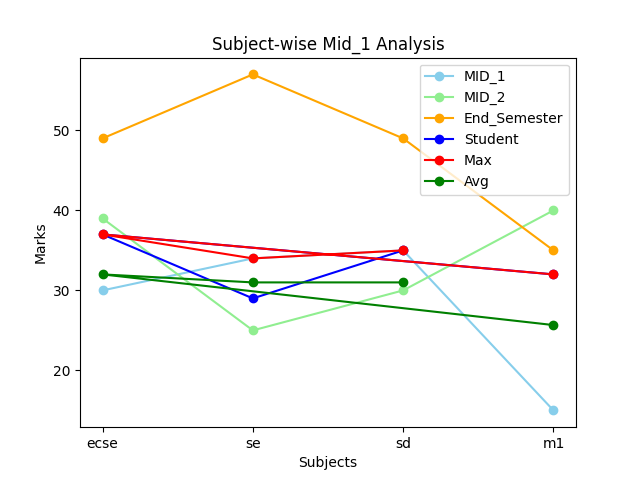
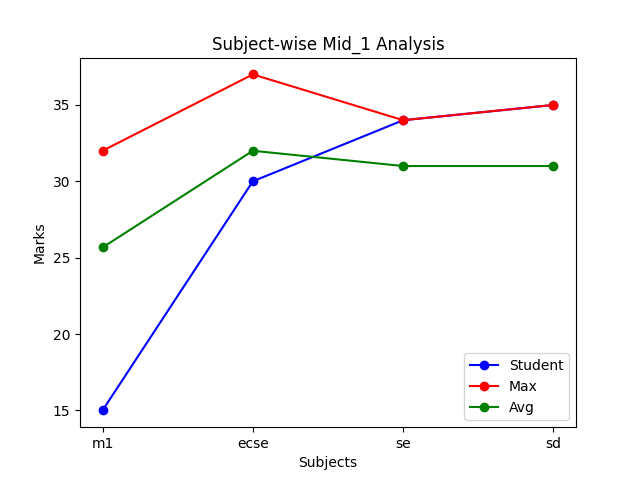
Updated app.py,mid_1.html,mid_2.html,end_sem.html and performance.html

diff --git a/templates/mid_1.html b/templates/mid_1.html
@@ -1,3 +1,4 @@
+
 <!DOCTYPE html>
 <html lang="en">
 <head>
@@ -5,7 +6,7 @@
     <meta name="viewport" content="width=device-width, initial-scale=1.0">
     <title>MID 1 Page</title>
     <!-- Bootstrap CSS -->
-    <link href="https://cdn.jsdelivr.net/npm/bootstrap@5.3.0-alpha3/dist/css/bootstrap.min.css" rel="stylesheet">
+    <link href="https://cdn.jsdelivr.net/npm/bootstrap@5.3.3/dist/css/bootstrap.min.css" rel="stylesheet">
 </head>
 <body class="bg-light">
 
@@ -26,32 +27,42 @@
                     </tr>
                 </thead>
                 <tbody>
-                    {% for i in range(n) %}
-                    <tr>
-                        <td>{{ subjects[i] }}</td>
-                        <td>{{ marks[i] }}</td>
-                    </tr>
-                    {% endfor %}
+                    {% if marks and subjects and n %}
+                        {% for i in range(n) %}
+                        <tr>
+                            <td>{{ subjects[i] }}</td>
+                            <td>{{ marks[i] }}</td>
+                        </tr>
+                        {% endfor %}
+                    {% else %}
+                        <tr>
+                            <td colspan="2">No data available</td>
+                        </tr>
+                    {% endif %}
                 </tbody>
             </table>
         </div>
-        <div class = "container mt-4">
+
+        <!-- Line Plot -->
+        <div class="container mt-4 text-center">
             {% if plot %}
-            <img src = {{plot}} alt = "Cannot display Graph">
+                <img src="{{ url_for('static', filename=plot) }}" alt="Mid 1 Analysis Graph" class="img-fluid">
             {% else %}
-            <p>plot not found</p>
+                <p>Line plot not found</p>
             {% endif %}
         </div>
-        <!-- <div class = "container mt-4">
+
+        <!-- Pie Chart -->
+        <div class="container mt-4 text-center">
             {% if pie %}
-            <img src = {{pie}} alt = "Cannot display Graph">
+                <img src="{{ url_for('static', filename=pie) }}" alt="Mid 1 Pie Chart" class="img-fluid">
             {% else %}
-            <p>plot not found</p>
+                <p>Pie chart not found</p>
             {% endif %}
-        </div> -->
+        </div>
     </div>
 
     <!-- Bootstrap JS -->
-    <script src="https://cdn.jsdelivr.net/npm/bootstrap@5.3.0-alpha3/dist/js/bootstrap.bundle.min.js"></script>
+    <script src="https://cdn.jsdelivr.net/npm/bootstrap@5.3.3/dist/js/bootstrap.bundle.min.js"></script>
 </body>
 </html>

diff --git a/templates/mid_2.html b/templates/mid_2.html
@@ -1,3 +1,4 @@
+
 <!DOCTYPE html>
 <html lang="en">
 <head>
@@ -5,7 +6,7 @@
     <meta name="viewport" content="width=device-width, initial-scale=1.0">
     <title>MID 2 Page</title>
     <!-- Bootstrap CSS -->
-    <link href="https://cdn.jsdelivr.net/npm/bootstrap@5.3.0-alpha3/dist/css/bootstrap.min.css" rel="stylesheet">
+    <link href="https://cdn.jsdelivr.net/npm/bootstrap@5.3.3/dist/css/bootstrap.min.css" rel="stylesheet">
 </head>
 <body class="bg-light">
 
@@ -26,25 +27,42 @@
                     </tr>
                 </thead>
                 <tbody>
-                    {% for i in range(n) %}
-                    <tr>
-                        <td>{{ subjects[i] }}</td>
-                        <td>{{ marks[i] }}</td>
-                    </tr>
-                    {% endfor %}
+                    {% if marks and subjects and n %}
+                        {% for i in range(n) %}
+                        <tr>
+                            <td>{{ subjects[i] }}</td>
+                            <td>{{ marks[i] }}</td>
+                        </tr>
+                        {% endfor %}
+                    {% else %}
+                        <tr>
+                            <td colspan="2">No data available</td>
+                        </tr>
+                    {% endif %}
                 </tbody>
             </table>
         </div>
-        <div class = "container mt-4">
+
+        <!-- Line Plot -->
+        <div class="container mt-4 text-center">
             {% if plot %}
-            <img src = {{plot}} alt = "Cannot display Graph">
+                <img src="{{ url_for('static', filename=plot) }}" alt="Mid 2 Analysis Graph" class="img-fluid">
             {% else %}
-            <p>plot not found</p>
+                <p>Line plot not found</p>
+            {% endif %}
+        </div>
+
+        <!-- Pie Chart -->
+        <div class="container mt-4 text-center">
+            {% if pie %}
+                <img src="{{ url_for('static', filename=pie) }}" alt="Mid 2 Pie Chart" class="img-fluid">
+            {% else %}
+                <p>Pie chart not found</p>
             {% endif %}
         </div>
     </div>
 
     <!-- Bootstrap JS -->
-    <script src="https://cdn.jsdelivr.net/npm/bootstrap@5.3.0-alpha3/dist/js/bootstrap.bundle.min.js"></script>
+    <script src="https://cdn.jsdelivr.net/npm/bootstrap@5.3.3/dist/js/bootstrap.bundle.min.js"></script>
 </body>
 </html>

diff --git a/templates/performance.html b/templates/performance.html
@@ -4,12 +4,10 @@
     <meta charset="UTF-8">
     <meta name="viewport" content="width=device-width, initial-scale=1.0">
     <title>Overall Performance</title>
-    <!-- Bootstrap CSS -->
-    <link href="https://cdn.jsdelivr.net/npm/bootstrap@5.3.0-alpha3/dist/css/bootstrap.min.css" rel="stylesheet">
+    <link href="https://cdn.jsdelivr.net/npm/bootstrap@5.3.0/dist/css/bootstrap.min.css" rel="stylesheet">
 </head>
 <body class="bg-light">
-
-    <!-- Navbar (Aligned to Left) -->
+    <!-- Navbar -->
     <nav class="navbar navbar-expand-lg navbar-light bg-white shadow-sm rounded p-3">
         <div class="container-fluid">
             <button class="navbar-toggler" type="button" data-bs-toggle="collapse" data-bs-target="#navbarNav"
@@ -28,23 +26,26 @@
 
     <!-- Page Content -->
     <div class="container mt-4">
-        <h1 class="text-center text-secondary">Overall Performance Page</h1>
-        <form>
-            <input type="number" placeholder="Target" required>
-            <button type="submit">Submit</button>
-            <p> You need {{ mark }} to reach the target!</p>
+        <h1 class="text-center text-secondary">Overall Performance</h1>
+        <form method="POST" action="/performance">
+            <div class="mb-3">
+                <input type="number" class="form-control w-25" name="target" placeholder="Enter Target Marks" required>
+            </div>
+            <button type="submit" class="btn btn-primary">Submit</button>
+            {% if mark %}
+            <p class="mt-2">You need {{ mark }} marks to reach the target!</p>
+            {% endif %}
         </form>
     </div>
 
-    <div class = "container mt-4">
+    <div class="container mt-4">
         {% if plot %}
-        <img src = {{plot}} alt = "Cannot display Graph">
+        <img src="{{ url_for('static', filename=plot) }}" alt="Performance Graph" class="img-fluid">
         {% else %}
-        <p>plot not found</p>
+        <p class="text-danger">Performance graph not available</p>
         {% endif %}
     </div>
 
-    <!-- Bootstrap JS -->
-    <script src="https://cdn.jsdelivr.net/npm/bootstrap@5.3.0-alpha3/dist/js/bootstrap.bundle.min.js"></script>
+    <script src="https://cdn.jsdelivr.net/npm/bootstrap@5.3.0/dist/js/bootstrap.bundle.min.js"></script>
 </body>
 </html>

diff --git a/app.py b/app.py
@@ -4,6 +4,7 @@ import matplotlib.pyplot as plt
 import numpy as np
 import matplotlib 
 matplotlib.use('Agg')
+import os
 
 app = Flask(__name__)
 
@@ -255,11 +256,14 @@ def performance():
         plt.xlabel("subjects")
         plt.ylabel("marks")
         plt.legend()
-        plt.savefig('static/myplot.png')
-        return render_template('performance.html',plot = "static/myplot.png")
-    return redirect('/s_dashboard')
+        
+        static_dir = os.path.join("RRP", "static")
+        os.makedirs(static_dir, exist_ok=True)
+        perfplotpath = os.path.join(static_dir,"performance.png")
+        plt.savefig(perfplotpath)
+        return render_template("performance.html",plot = "performance.png",mark = 10)
+    return redirect('/student')
 
-#MID 1 route
 @app.route('/mid_1')
 def exam():
     if 'sid' in session:
@@ -267,36 +271,48 @@ def exam():
         c = conn.cursor()
         c.execute("SELECT m1, ecse, se, sd FROM MID_1 WHERE sid = ?", (session['sid'],))
         marks = c.fetchone()
-        m = np.array(marks)
-        total_ps = np.sum(m)
         avg = []
         max = []
         m1_marks = []
         ecse_marks = []
         se_marks = []
         sd_marks = []
-        c.execute("SELECT m1, ecse, se, sd FROM MID_1")
-        all_marks = c.fetchall()
-        for row in all_marks:
-            m1_marks.append(row[0])
-            ecse_marks.append(row[1])
-            se_marks.append(row[2])
-            sd_marks.append(row[3])
-        max = [np.max(m1_marks), np.max(ecse_marks), np.max(se_marks), np.max(sd_marks)]
-        avg = [np.mean(m1_marks), np.mean(ecse_marks), np.mean(se_marks), np.mean(sd_marks)]
-        subjects = ["m1", "ecse", "se", "sd"]
-        plt.plot(subjects, marks, color="blue",marker="o", label="Student")
-        plt.plot(subjects, max, color="red", marker="o", label="Max")
-        plt.plot(subjects, avg, color="green", marker="o", label="Avg")
-        plt.title("Subject-wise Mid_1 Analysis")
+        c.execute("SELECT m1,ecse,se,sd FROM MID_1")
+        new = c.fetchall()
+        print(new[0])
+        for i in new:
+            m1_marks.append(i[0])
+            ecse_marks.append(i[1])
+            se_marks.append(i[2])
+            sd_marks.append(i[3])
+        max = [np.max(m1_marks),np.max(ecse_marks),np.max(se_marks),np.max(sd_marks)]
+        avg = [np.mean(m1_marks),np.mean(ecse_marks),np.mean(se_marks),np.mean(sd_marks)]
+        print(avg)
+        print(max)
+        subjects = ["ecse","se","sd","m1"]
+        plt.plot(subjects,marks,color="blue",marker="o",label="student")
+        plt.plot(subjects,max,color="red",marker="o",label="max")
+        plt.plot(subjects,avg,color="green",marker="o",label="avg")
+        plt.title("Subject wise Mid_1 analysis")
         plt.xlabel("Subjects")
-        plt.ylabel("Marks")
+        plt.ylabel("marks")
         plt.legend()
-        # Save the plot as an image file
-        plt.savefig("static/mid_1_analysis.png")
-        plt.close()  # Close the plot to release resources
+        # Ensure static directory exists
+        static_dir = os.path.join("static")
+        os.makedirs(static_dir, exist_ok=True)
         
-        return render_template('mid_1.html', marks=marks, subjects=subjects,n=4, plot="static/mid_1_analysis.png",pie="static/mid_1_piechart.png")
+        # Save plot
+        plot_path = os.path.join("static", "mid_1_analysis.png")
+        plt.savefig(plot_path)
+        plt.close()
+        
+        plt.pie(marks, labels=subjects, autopct='%1.1f%%', startangle=140)
+        plt.title("Mid_1 Marks Distribution")
+        pie_plot_path = os.path.join(static_dir, "mid_1_piechart.png")
+        plt.savefig(pie_plot_path)
+        plt.close()        
+        # Render template with data
+        return render_template('mid_1.html', marks=marks, subjects=subjects, n=len(subjects), plot="mid_1_analysis.png",pie = "mid_1_piechart.png")
     return redirect('/logout')
 
 # MID 2 route
@@ -333,49 +349,72 @@ def mid_2():
         plt.xlabel("Subjects")
         plt.ylabel("marks")
         plt.legend()
-        plt.savefig("static/mid_2_analysis.png")
+        # Ensure static directory exists
+        static_dir = os.path.join("static")
+        os.makedirs(static_dir, exist_ok=True)
+        
+        # Save plot
+        plot_path = os.path.join("static", "mid_2_analysis.png")
+        plt.savefig(plot_path)
         plt.close()
-        return render_template('mid_2.html', marks = marks, subjects = subjects, n=4, plot='static/mid_2_analysis.png')
+        
+        plt.pie(marks, labels=subjects, autopct='%1.1f%%', startangle=140)
+        plt.title("Mid_2 Marks Distribution")
+        pie_plot_path = os.path.join(static_dir, "mid_2_piechart.png")
+        plt.savefig(pie_plot_path)
+        plt.close()        
+        # Render template with data
+        return render_template('mid_2.html', marks=marks, subjects=subjects, n=len(subjects), plot="mid_2_analysis.png",pie = "mid_2_piechart.png")
     return redirect('/logout')
 
 # END_SEM  route
 @app.route('/end_sem')
 def end_sem():
-    if 'sid' in session:
-        conn = sqlite3.connect('rrp.db')
-        c = conn.cursor()
-        c.execute("SELECT m1, ecse, se, sd FROM End_Semester WHERE sid = ?", (session['sid'],))
-        marks = c.fetchone()
-        avg = []
-        max = []
-        m1_marks = []
-        ecse_marks = []
-        se_marks = []
-        sd_marks = []
-        c.execute("SELECT m1,ecse,se,sd FROM End_Semester")
-        new = c.fetchall()
-        print(new[0])
-        for i in new:
-            m1_marks.append(i[0])
-            ecse_marks.append(i[1])
-            se_marks.append(i[2])
-            sd_marks.append(i[3])
-        max = [np.max(m1_marks),np.max(ecse_marks),np.max(se_marks),np.max(sd_marks)]
-        avg = [np.mean(m1_marks),np.mean(ecse_marks),np.mean(se_marks),np.mean(sd_marks)]
-        print(avg)
-        print(max)
-        subjects = ["ecse","se","sd","m1"]
-        plt.plot(subjects,marks,color="blue",marker="o",label="student")
-        plt.plot(subjects,max,color="red",marker="o",label="max")
-        plt.plot(subjects,avg,color="green",marker="o",label="avg")
-        plt.title("Subject wise End_Semester analysis")
-        plt.xlabel("Subjects")
-        plt.ylabel("marks")
-        plt.legend()
-        plt.savefig("static/sem_analysis.png")
-        plt.close()
-        return render_template('end_sem.html', marks = marks, subjects = subjects, n=4,plot='static/sem_analysis.png')
-    return redirect('/logout')
+    if 'sid' not in session:
+        return redirect('/logout')
+    conn = sqlite3.connect('rrp.db')
+    c = conn.cursor()
+        
+    c.execute("SELECT m1, ecse, se, sd FROM End_Semester WHERE sid = ?", (session['sid'],))
+    marks = c.fetchone()
+        
+    c.execute("SELECT m1, ecse, se, sd FROM End_Semester")
+    all_marks = c.fetchall()
+        
+    if not all_marks:
+        return render_template('error.html', message="No marks data available in the database")
+    m1_marks = []
+    ecse_marks = []
+    se_marks = []
+    sd_marks = []
+    
+    for row in all_marks:
+        m1_marks.append(row[0])
+        ecse_marks.append(row[1])
+        se_marks.append(row[2])
+        sd_marks.append(row[3])
+        
+    max_marks = [np.max(m1_marks), np.max(ecse_marks), np.max(se_marks), np.max(sd_marks)]
+    avg_marks = [np.mean(m1_marks), np.mean(ecse_marks), np.mean(se_marks), np.mean(sd_marks)]
+
+    subjects = ["M1", "ECSE", "SE", "SD"]
+        
+    plt.figure(figsize=(8, 6))
+    plt.plot(subjects, marks, color="blue", marker="o", label="Student")
+    plt.plot(subjects, max_marks, color="red", marker="o", label="Max")
+    plt.plot(subjects, avg_marks, color="green", marker="o", label="Avg")
+    plt.title("Subject-wise End Semester Analysis")
+    plt.xlabel("Subjects")
+    plt.ylabel("Marks")
+    plt.legend()
+        
+    static_dir = os.path.join("static")
+    os.makedirs(static_dir, exist_ok=True)
+    plot_path = os.path.join("static", "sem_analysis.png")
+    plt.savefig(plot_path)
+    plt.close()
+    return render_template('end_sem.html', marks=marks, subjects=subjects, n=len(subjects), plot="/static/sem_analysis.png")
+
 
 # logout
 @app.route('/logout',methods=['GET','POST'])
